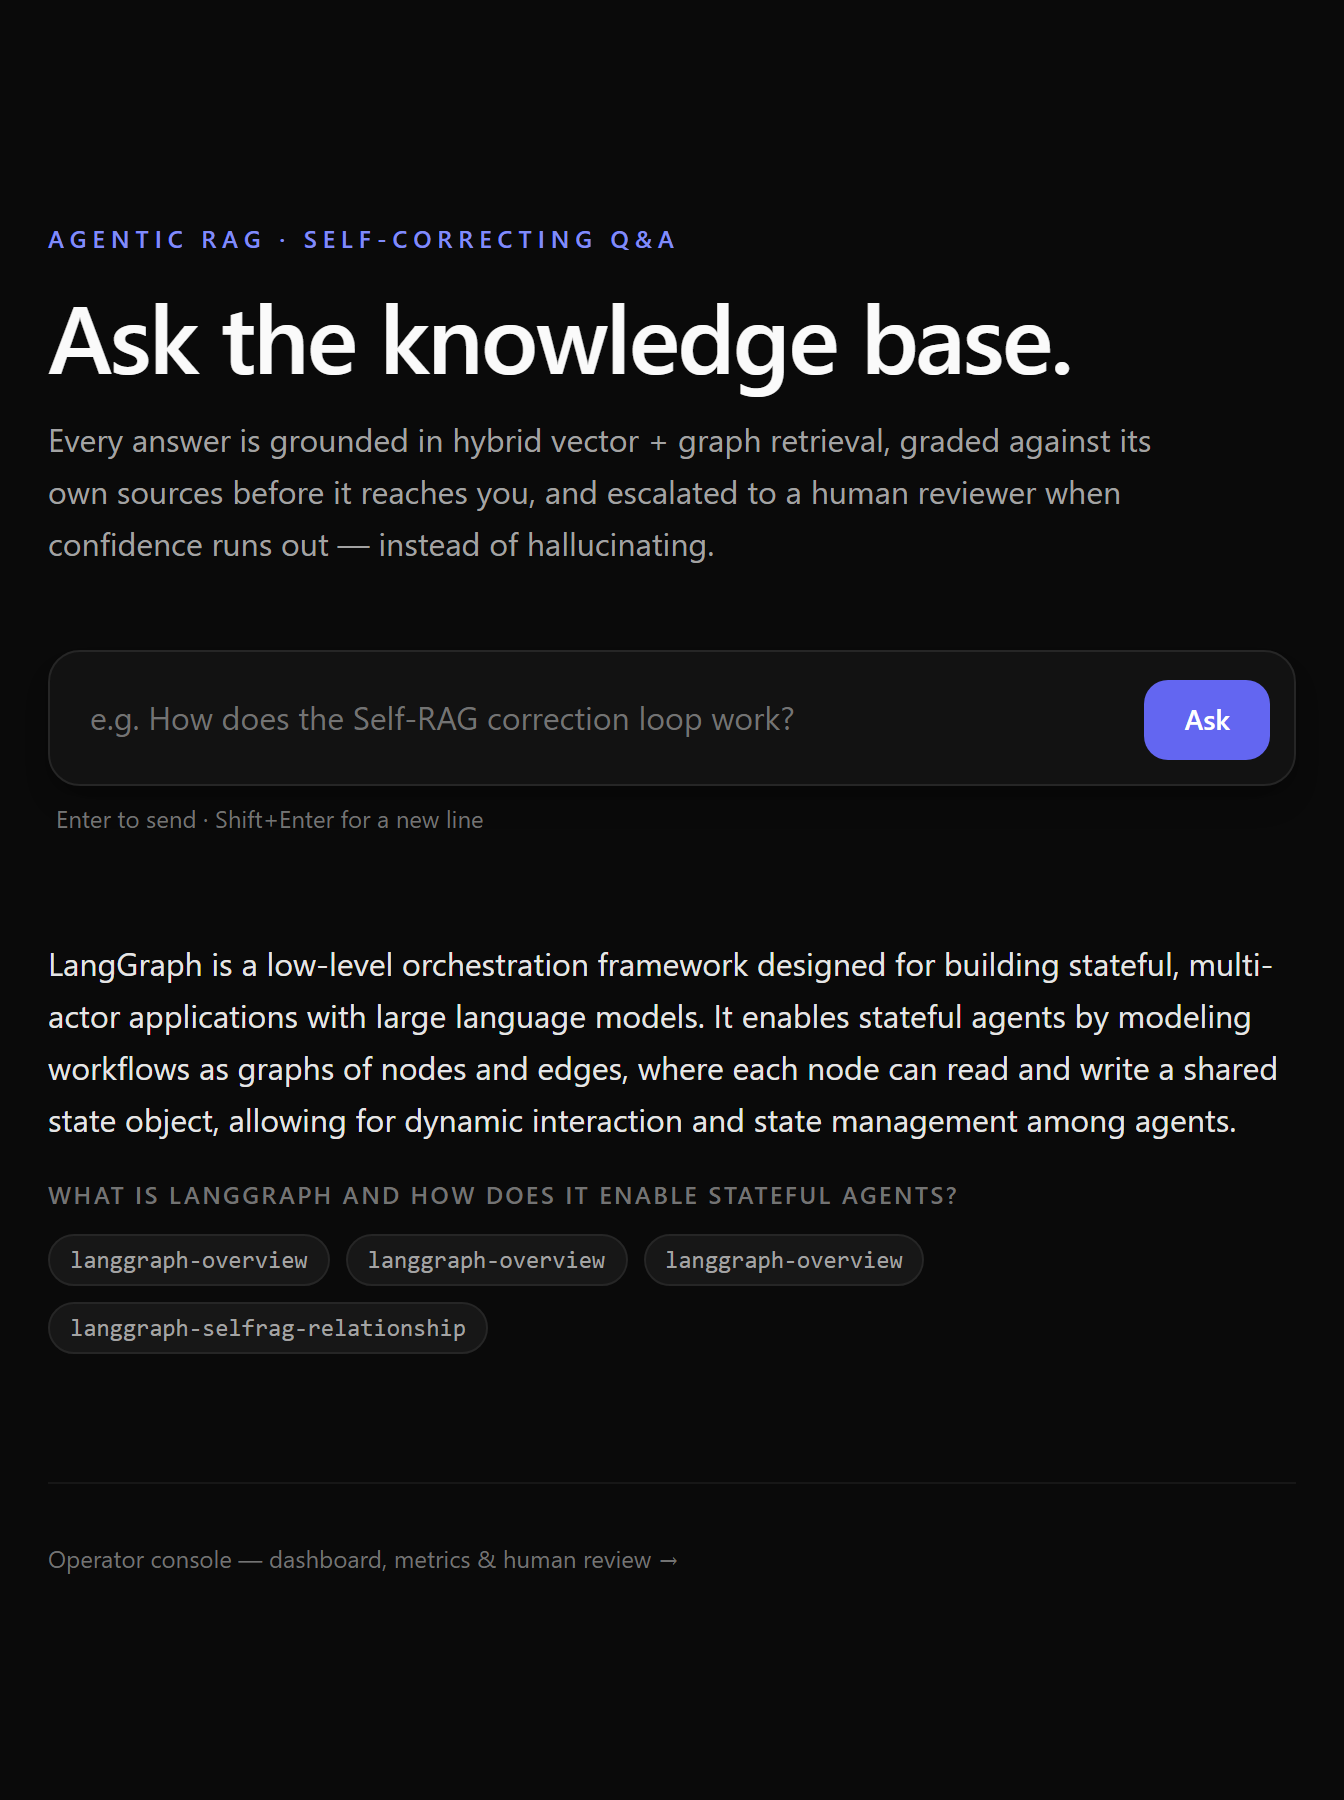
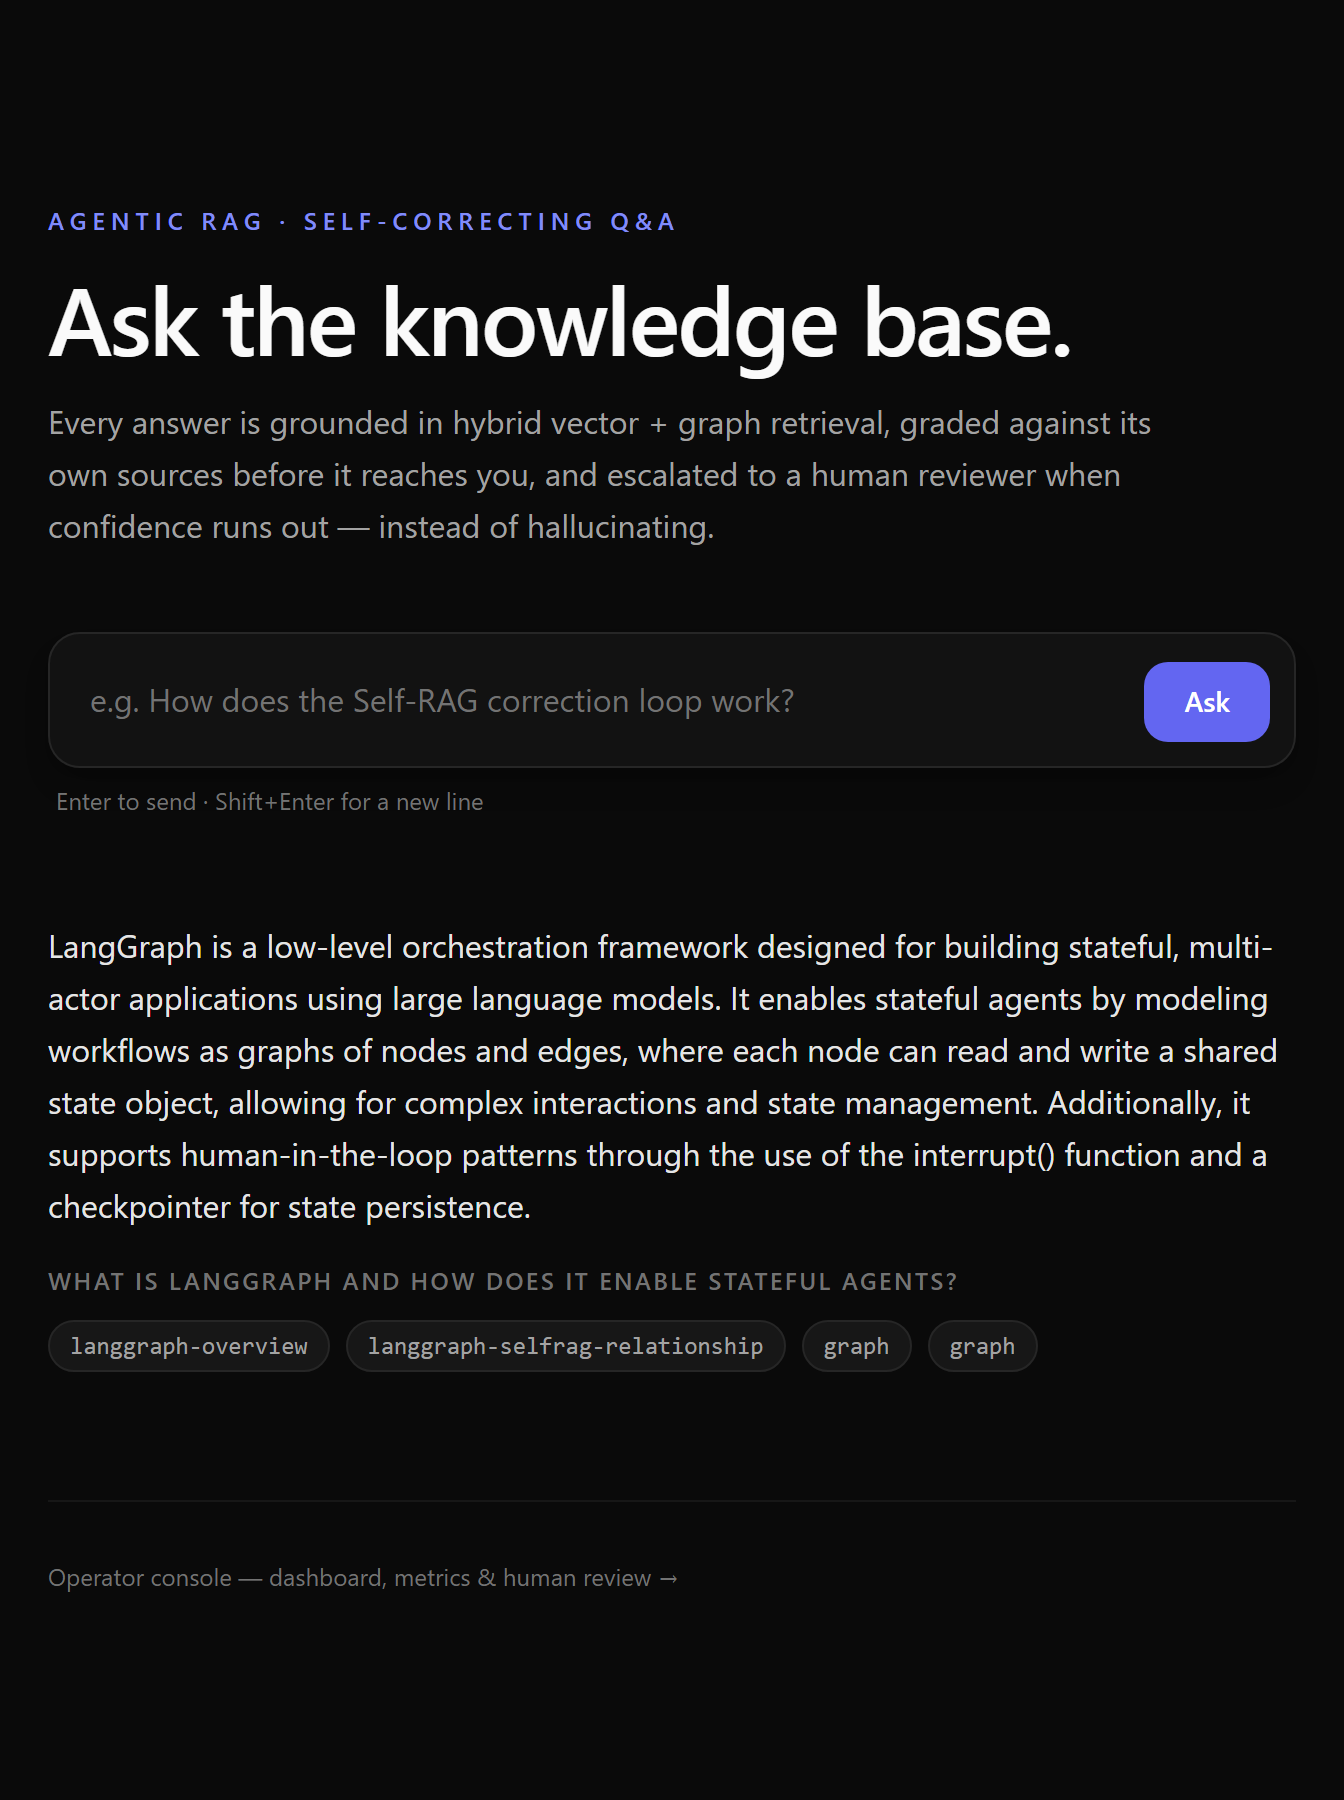
docs: recapture UI evidence showing sub-3s latencies, fix demo clip
Regenerate all screenshots against the latency-optimized pipeline: the
dashboard now shows ~2.8s average query latency (was ~4.5s) and graph
sources appear in the landing answer.

The demo clip now types the question character by character instead of
filling it instantly, lingers on the rendered answer, and trims the
leading white flash from page load — the viewer can actually read what
is sent to the RAG.

diff --git a/scripts/capture_screenshots.py b/scripts/capture_screenshots.py
@@ -34,7 +34,7 @@ from pathlib import Path
 
 from playwright.sync_api import sync_playwright
 
-BASE_URL = "http://localhost:8000"
+BASE_URL = "http://127.0.0.1:8000"
 ROOT = Path(__file__).resolve().parent.parent
 SHOTS_DIR = ROOT / "docs" / "screenshots"
 SCORECARD_JSON = ROOT / "evaluation" / "results" / "ragas_scorecard.json"
@@ -77,8 +77,12 @@ def save_screenshot(locator_or_page, path: Path, **kwargs) -> None:
     raise last_error
 
 
-def capture_landing(browser) -> None:
-    """Screenshot the landing answering a real question; record a demo clip."""
+def capture_landing(browser) -> float:
+    """Screenshot the landing answering a real question; record a demo clip.
+
+    Returns the seconds of leading dead time in the recording (page-load
+    white flash before content paints) so the GIF conversion can trim it.
+    """
     with tempfile.TemporaryDirectory() as video_dir:
         context = browser.new_context(
             viewport={"width": 1280, "height": 900},
@@ -87,10 +91,20 @@ def capture_landing(browser) -> None:
             record_video_size={"width": 1280, "height": 900},
         )
         page = context.new_page()
+        # The recording clock starts roughly at page creation, so the dead
+        # time to trim is measured from here — measuring earlier would cut
+        # into the typing animation.
+        recording_start = time.monotonic()
         try:
             page.goto(BASE_URL + "/", wait_until="networkidle")
-            page.fill("#question", LANDING_QUESTION)
-            page.press("#question", "Enter")
+            loaded_at = time.monotonic()
+            # The recording doubles as demo.gif: hold on the empty landing,
+            # then type the question character by character so the viewer can
+            # read what is being sent — `fill` would pop it in instantly.
+            page.wait_for_timeout(900)
+            page.locator("#question").press_sequentially(LANDING_QUESTION, delay=55)
+            page.wait_for_timeout(350)
+            page.click("#ask-button")
             wait_for_ask_cycle(page, "#ask-button")
             # A transient backend error renders a Retry button — use it once.
             retry = page.locator("#answer [role='alert'] button")
@@ -99,11 +113,13 @@ def capture_landing(browser) -> None:
                 wait_for_ask_cycle(page, "#ask-button")
             page.wait_for_timeout(400)  # let source chips / fonts settle
             save_screenshot(page.locator("main"), SHOTS_DIR / "frontend.png")
+            page.wait_for_timeout(2000)  # let the clip linger on the answer
         finally:
             context.close()
         video_path = page.video.path() if page.video else None
         if video_path and Path(video_path).exists():
             shutil.copy(video_path, SHOTS_DIR / "demo.webm")
+        return loaded_at - recording_start
 
 
 def ask_console(page, question: str) -> None:
@@ -173,8 +189,13 @@ def capture_scorecard(browser) -> None:
         context.close()
 
 
-def maybe_make_gif() -> None:
-    """Convert demo.webm → demo.gif if an ffmpeg binary is available."""
+def maybe_make_gif(trim_seconds: float = 0.0) -> None:
+    """Convert demo.webm → demo.gif if an ffmpeg binary is available.
+
+    ``trim_seconds`` cuts the leading dead time (white flash while the page
+    loads) from the recording, keeping a short beat of idle landing before
+    the typing starts.
+    """
     webm = SHOTS_DIR / "demo.webm"
     gif = SHOTS_DIR / "demo.gif"
     if not webm.exists():
@@ -188,12 +209,16 @@ def maybe_make_gif() -> None:
     if not ffmpeg:
         print("ffmpeg not found — keeping demo.webm only (GIF skipped).")
         return
+    # Output-side -ss seeks accurately (input seek snaps to sparse keyframes).
+    trim = max(0.0, trim_seconds - 0.4)
     subprocess.run(
         [
             ffmpeg,
             "-y",
             "-i",
             str(webm),
+            "-ss",
+            f"{trim:.2f}",
             "-vf",
             "fps=10,scale=880:-1:flags=lanczos",
             str(gif),
@@ -209,11 +234,11 @@ def main() -> int:
     SHOTS_DIR.mkdir(parents=True, exist_ok=True)
     with sync_playwright() as pw:
         browser = pw.chromium.launch()
-        capture_landing(browser)
+        trim_seconds = capture_landing(browser)
         capture_console(browser)
         capture_scorecard(browser)
         browser.close()
-    maybe_make_gif()
+    maybe_make_gif(trim_seconds)
     for path in sorted(SHOTS_DIR.iterdir()):
         if path.suffix in {".png", ".gif"}:
             print(f"  {path.relative_to(ROOT)} ({path.stat().st_size // 1024} KB)")

diff --git a/README.md b/README.md
@@ -303,7 +303,7 @@ cost = (prompt_tokens / 1_000_000 × input_price) + (completion_tokens / 1_000_0
 
 With `gpt-4o-mini` defaults (`$0.15` / 1M input, `$0.60` / 1M output), a query
 consuming 2,000 prompt + 500 completion tokens costs ≈ **$0.0006** — the live
-dashboard below shows real queries at **$0.0002** each:
+dashboard below shows real queries at **$0.0002–$0.0003** each:
 
 ![Dashboard — cost](docs/screenshots/dashboard-cost.png)
 
